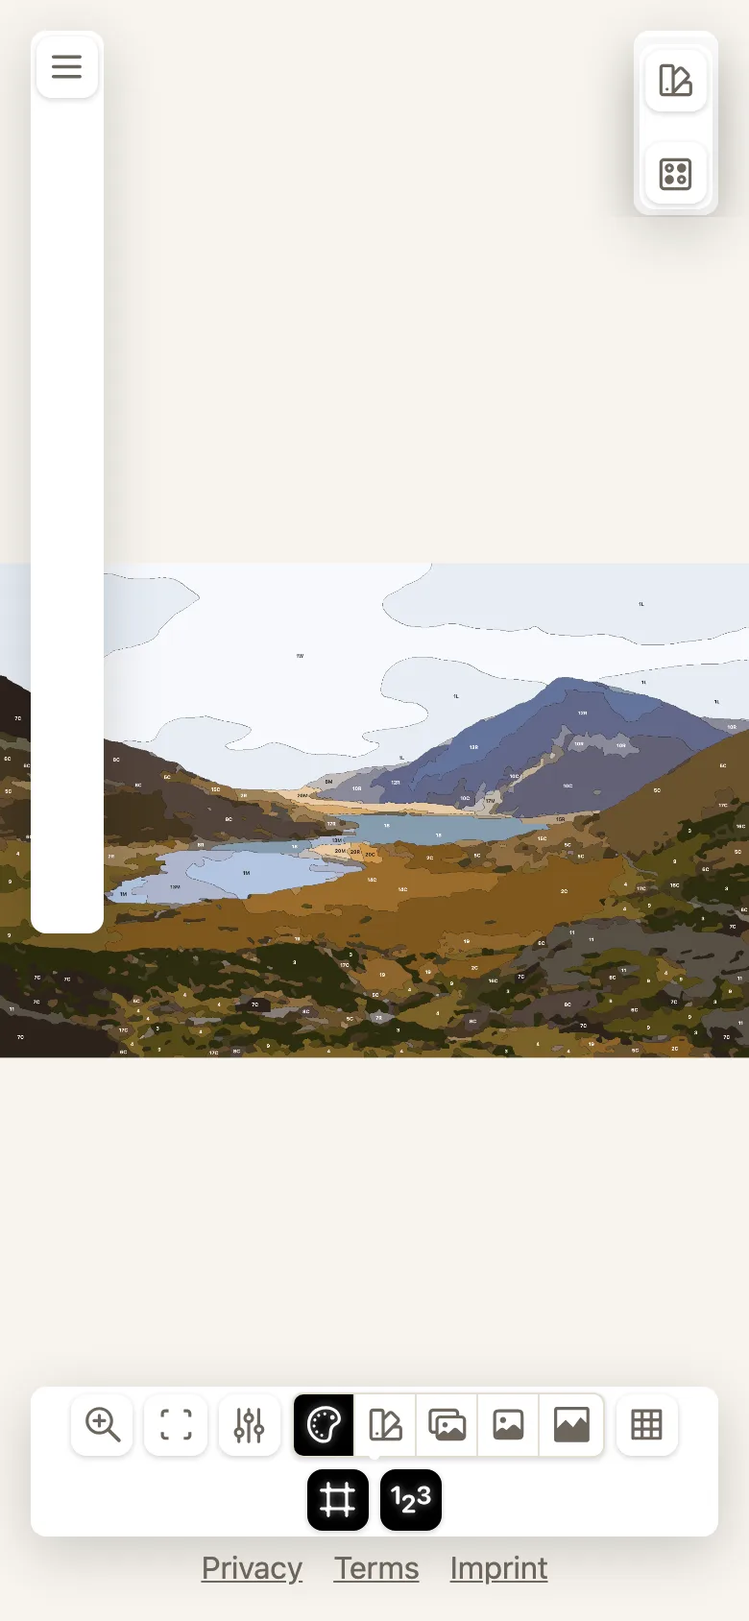
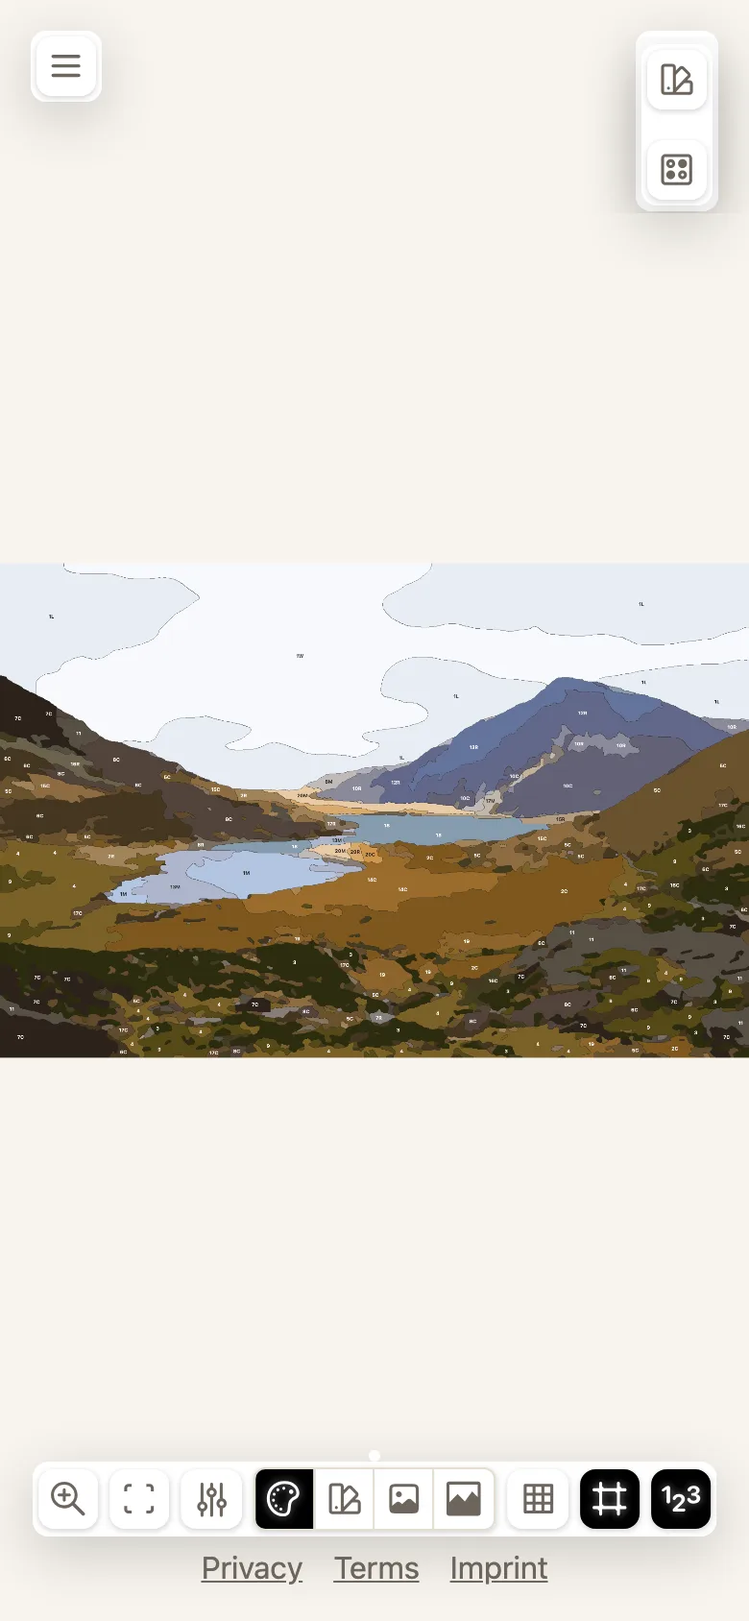
fix: phone toolbar in one row again, folded menu only the burger; Overlay view hidden
The tool size counts the grid button's group and the view group's borders; the folded menu
buttons leave the flow, so the panel around the burger no longer reaches down the screen.
Manual: Overlay gone from the views, picture tools and phone shots retaken.

diff --git a/public/de/handbuch/alles.html b/public/de/handbuch/alles.html
@@ -39,7 +39,7 @@
 <ol class="legend">
 <li><strong>Neues Bild</strong> und die anderen Knöpfe rund ums Bild: Beispiele, Sichern, Sammlung, Drucken, Exportieren.</li>
 <li>Die Werkzeuge des Bildes: ans Fenster anpassen, einen Ausschnitt ansehen.</li>
-<li>Die Ansichten: gemischte Farbe, die Farben des Fotos, Überlagerung, das Foto selbst.</li>
+<li>Die Ansichten: gemischte Farbe, die Farben des Fotos, das Foto selbst.</li>
 <li><strong>Farben</strong>: jede Mischung mit ihren Farben und Lasuren.</li>
 <li><strong>Einstellungen</strong>: wie viele Mischungen, wie einfach die Flächen, welche Methode.</li>
 <li><strong>Farbkasten</strong>: die Farben, die du besitzt, und die Palette dieses Bildes.</li>
@@ -332,13 +332,12 @@
 <figure class="shot"><div class="shot__frame"><a class="shot__zoom" href="../../manual/img/de/geometric.webp" title="Bild in voller Größe öffnen"><img src="../../manual/img/de/geometric.webp" width="1440" height="900" alt="Das Beispielfoto mit geometrischen Flächen" loading="lazy"></a></div><figcaption>Das Beispielfoto mit geometrischen Flächen</figcaption></figure>
 <h2 id="farbflaechen--die-ansichten"><a class="anchor" href="#farbflaechen--die-ansichten" aria-hidden="true" tabindex="-1">#</a>Die Ansichten</h2>
 <p>Die Werkzeuge des Bildes sitzen über ihm.</p>
-<figure class="shot shot--markers" style="--shot-width:666px"><div class="shot__frame"><a class="shot__zoom" href="../../manual/img/de/picture-tools.webp" title="Bild in voller Größe öffnen"><img src="../../manual/img/de/picture-tools.webp" width="666" height="90" alt="Die Werkzeuge des Bildes" loading="lazy"></a><span class="shot__marker" style="left:6.61%;top:3.33%" aria-hidden="true">1</span><span class="shot__marker" style="left:16.22%;top:3.33%" aria-hidden="true">2</span><span class="shot__marker" style="left:35.59%;top:3.33%" aria-hidden="true">3</span><span class="shot__marker" style="left:42.79%;top:3.33%" aria-hidden="true">4</span><span class="shot__marker" style="left:50%;top:3.33%" aria-hidden="true">5</span><span class="shot__marker" style="left:57.21%;top:3.33%" aria-hidden="true">6</span><span class="shot__marker" style="left:64.41%;top:3.33%" aria-hidden="true">7</span><span class="shot__marker" style="left:74.17%;top:3.33%" aria-hidden="true">8</span><span class="shot__marker" style="left:83.78%;top:3.33%" aria-hidden="true">9</span><span class="shot__marker" style="left:93.39%;top:3.33%" aria-hidden="true">10</span></div><figcaption>Die Werkzeuge des Bildes</figcaption></figure>
+<figure class="shot shot--markers" style="--shot-width:618px"><div class="shot__frame"><a class="shot__zoom" href="../../manual/img/de/picture-tools.webp" title="Bild in voller Größe öffnen"><img src="../../manual/img/de/picture-tools.webp" width="618" height="90" alt="Die Werkzeuge des Bildes" loading="lazy"></a><span class="shot__marker" style="left:7.12%;top:3.33%" aria-hidden="true">1</span><span class="shot__marker" style="left:17.48%;top:3.33%" aria-hidden="true">2</span><span class="shot__marker" style="left:38.35%;top:3.33%" aria-hidden="true">3</span><span class="shot__marker" style="left:46.12%;top:3.33%" aria-hidden="true">4</span><span class="shot__marker" style="left:53.88%;top:3.33%" aria-hidden="true">5</span><span class="shot__marker" style="left:61.65%;top:3.33%" aria-hidden="true">6</span><span class="shot__marker" style="left:72.17%;top:3.33%" aria-hidden="true">7</span><span class="shot__marker" style="left:82.52%;top:3.33%" aria-hidden="true">8</span><span class="shot__marker" style="left:92.88%;top:3.33%" aria-hidden="true">9</span></div><figcaption>Die Werkzeuge des Bildes</figcaption></figure>
 <ol class="legend">
 <li><strong>Anpassen</strong> passt das Bild ins Fenster.</li>
 <li><strong>Ausschnitt</strong> zeigt einen Teil des Bildes für sich (siehe <a href="#bilder--genauer-hinsehen-ausschnitte-des-bildes">Bilder</a>).</li>
 <li><strong>Gemischte Farbe</strong>: jede Fläche in dem Ton, den deine Farben tatsächlich erreichen. Nach dieser Ansicht malst du.</li>
 <li><strong>Fotofarbe</strong>: jede Fläche in der Farbe des Fotos. Vergleich sie mit <strong>Gemischte Farbe</strong>, um zu sehen, wo deine Farben nicht hinkommen.</li>
-<li><strong>Überlagerung</strong>: das Foto zur Hälfte über der Farbe, um zu sehen, welche Fläche welcher Teil des Fotos ist.</li>
 <li><strong>Foto</strong>: das Original, mit Sättigung und Kontrast.</li>
 <li><strong>Blocking</strong>: Licht und Schatten in großen Massen. Siehe <a href="#tonwerte--blocking-licht-und-schatten-zuerst">Tonwerte</a>.</li>
 <li><strong>Raster</strong>: quadratische Felder über dem Bild, in Weiß, Grau oder Schwarz. Siehe <a href="#drucken--das-raster">Drucken</a>.</li>
@@ -346,7 +345,6 @@
 <li><strong>Nummern</strong>: jeder Klick schaltet weiter, von Nummern zu Nummern auf Hintergrund zu keinen Nummern. Auf Hintergrund steht jede Nummer auf einem kleinen Quadrat, weiß mit dunkler Nummer auf dunklen Flächen und dunkel mit weißer Nummer auf hellen, so bleibt sie auf jeder Farbe lesbar.</li>
 </ol>
 <figure class="shot"><div class="shot__frame"><a class="shot__zoom" href="../../manual/img/de/view-target.webp" title="Bild in voller Größe öffnen"><img src="../../manual/img/de/view-target.webp" width="1440" height="900" alt="Fotofarbe: was das Foto verlangt" loading="lazy"></a></div><figcaption>Fotofarbe: was das Foto verlangt</figcaption></figure>
-<figure class="shot"><div class="shot__frame"><a class="shot__zoom" href="../../manual/img/de/view-overlay.webp" title="Bild in voller Größe öffnen"><img src="../../manual/img/de/view-overlay.webp" width="1440" height="900" alt="Überlagerung: das Foto über der Farbe" loading="lazy"></a></div><figcaption>Überlagerung: das Foto über der Farbe</figcaption></figure>
 <figure class="shot"><div class="shot__frame"><a class="shot__zoom" href="../../manual/img/de/view-photo.webp" title="Bild in voller Größe öffnen"><img src="../../manual/img/de/view-photo.webp" width="1440" height="900" alt="Foto: das Original" loading="lazy"></a></div><figcaption>Foto: das Original</figcaption></figure>
 <p>Ohne Umrisse und Nummern zeigt <strong>Gemischte Farbe</strong> das Bild so, wie es gemalt aussehen könnte, ein guter Test, ob der Plan als Bild funktioniert.</p>
 <figure class="shot"><div class="shot__frame"><a class="shot__zoom" href="../../manual/img/de/view-plain.webp" title="Bild in voller Größe öffnen"><img src="../../manual/img/de/view-plain.webp" width="1440" height="900" alt="Gemischte Farbe ohne Umrisse und Nummern" loading="lazy"></a></div><figcaption>Gemischte Farbe ohne Umrisse und Nummern</figcaption></figure>
@@ -1734,11 +1732,6 @@
 <td>Treffer</td>
 <td>Match quality</td>
 <td>Wie nah ein Rezept seinem Ziel kommt: sehr gut (unter 2), gut (unter 5), mäßig (unter 10), grob (ab 10). Englisch: excellent, good, fair, rough.</td>
-</tr>
-<tr>
-<td>Überlagerung</td>
-<td>Overlay</td>
-<td>Die Ansicht des Fotos in halber Stärke über der Farbe.</td>
 </tr>
 <tr>
 <td>Ziel</td>

diff --git a/public/manual/all.html b/public/manual/all.html
@@ -39,7 +39,7 @@
 <ol class="legend">
 <li><strong>New picture</strong> and the other buttons for the picture: samples, saving, the collection, printing, exporting.</li>
 <li>The tools of the picture: fit it to the window, look at a detail.</li>
-<li>The views: mixed paint, the colours of the photo, an overlay, the photo itself.</li>
+<li>The views: mixed paint, the colours of the photo, the photo itself.</li>
 <li><strong>Colours</strong>: every mix with its paints and its washes.</li>
 <li><strong>Settings</strong>: how many mixes, how simple the areas, the method.</li>
 <li><strong>Paint box</strong>: the paints you own and the palette of this picture.</li>
@@ -332,13 +332,12 @@
 <figure class="shot"><div class="shot__frame"><a class="shot__zoom" href="img/en/geometric.webp" title="Open the picture at full size"><img src="img/en/geometric.webp" width="1440" height="900" alt="The sample photo with geometric areas" loading="lazy"></a></div><figcaption>The sample photo with geometric areas</figcaption></figure>
 <h2 id="colour-areas--the-views"><a class="anchor" href="#colour-areas--the-views" aria-hidden="true" tabindex="-1">#</a>The views</h2>
 <p>The tools of the picture sit above it.</p>
-<figure class="shot shot--markers" style="--shot-width:666px"><div class="shot__frame"><a class="shot__zoom" href="img/en/picture-tools.webp" title="Open the picture at full size"><img src="img/en/picture-tools.webp" width="666" height="90" alt="The tools of the picture" loading="lazy"></a><span class="shot__marker" style="left:6.61%;top:3.33%" aria-hidden="true">1</span><span class="shot__marker" style="left:16.22%;top:3.33%" aria-hidden="true">2</span><span class="shot__marker" style="left:35.59%;top:3.33%" aria-hidden="true">3</span><span class="shot__marker" style="left:42.79%;top:3.33%" aria-hidden="true">4</span><span class="shot__marker" style="left:50%;top:3.33%" aria-hidden="true">5</span><span class="shot__marker" style="left:57.21%;top:3.33%" aria-hidden="true">6</span><span class="shot__marker" style="left:64.41%;top:3.33%" aria-hidden="true">7</span><span class="shot__marker" style="left:74.17%;top:3.33%" aria-hidden="true">8</span><span class="shot__marker" style="left:83.78%;top:3.33%" aria-hidden="true">9</span><span class="shot__marker" style="left:93.39%;top:3.33%" aria-hidden="true">10</span></div><figcaption>The tools of the picture</figcaption></figure>
+<figure class="shot shot--markers" style="--shot-width:618px"><div class="shot__frame"><a class="shot__zoom" href="img/en/picture-tools.webp" title="Open the picture at full size"><img src="img/en/picture-tools.webp" width="618" height="90" alt="The tools of the picture" loading="lazy"></a><span class="shot__marker" style="left:7.12%;top:3.33%" aria-hidden="true">1</span><span class="shot__marker" style="left:17.48%;top:3.33%" aria-hidden="true">2</span><span class="shot__marker" style="left:38.35%;top:3.33%" aria-hidden="true">3</span><span class="shot__marker" style="left:46.12%;top:3.33%" aria-hidden="true">4</span><span class="shot__marker" style="left:53.88%;top:3.33%" aria-hidden="true">5</span><span class="shot__marker" style="left:61.65%;top:3.33%" aria-hidden="true">6</span><span class="shot__marker" style="left:72.17%;top:3.33%" aria-hidden="true">7</span><span class="shot__marker" style="left:82.52%;top:3.33%" aria-hidden="true">8</span><span class="shot__marker" style="left:92.88%;top:3.33%" aria-hidden="true">9</span></div><figcaption>The tools of the picture</figcaption></figure>
 <ol class="legend">
 <li><strong>Fit</strong> fits the picture to the window.</li>
 <li><strong>Detail</strong> lets you look at a part of the picture on its own (see <a href="#pictures--looking-closer-details-of-the-picture">Pictures</a>).</li>
 <li><strong>Mixed paint</strong>: every area in the colour your paints actually reach. This is the view to paint from.</li>
 <li><strong>Photo colour</strong>: every area in the colour of the photo. Compare it with <strong>Mixed paint</strong> to see where your paints fall short.</li>
-<li><strong>Overlay</strong>: the photo at half strength over the paint, to see which area is which part of the photo.</li>
 <li><strong>Photo</strong>: the original, with saturation and contrast applied.</li>
 <li><strong>Blocking</strong>: light and shadow in large masses. See <a href="#values--blocking-light-and-shadow-first">Values</a>.</li>
 <li><strong>Grid</strong>: square cells over the picture, in white, grey or black. See <a href="#printing--the-grid">Printing</a>.</li>
@@ -346,7 +345,6 @@
 <li><strong>Numbers</strong>: each click steps on from numbers to numbers on a backdrop to no numbers. On a backdrop every number sits on a small square, white with a dark number on dark areas and dark with a white number on light ones, so it stays readable on any colour.</li>
 </ol>
 <figure class="shot"><div class="shot__frame"><a class="shot__zoom" href="img/en/view-target.webp" title="Open the picture at full size"><img src="img/en/view-target.webp" width="1440" height="900" alt="Photo colour: what the photo asks for" loading="lazy"></a></div><figcaption>Photo colour: what the photo asks for</figcaption></figure>
-<figure class="shot"><div class="shot__frame"><a class="shot__zoom" href="img/en/view-overlay.webp" title="Open the picture at full size"><img src="img/en/view-overlay.webp" width="1440" height="900" alt="Overlay: the photo over the paint" loading="lazy"></a></div><figcaption>Overlay: the photo over the paint</figcaption></figure>
 <figure class="shot"><div class="shot__frame"><a class="shot__zoom" href="img/en/view-photo.webp" title="Open the picture at full size"><img src="img/en/view-photo.webp" width="1440" height="900" alt="Photo: the original" loading="lazy"></a></div><figcaption>Photo: the original</figcaption></figure>
 <p>With outlines and numbers off, <strong>Mixed paint</strong> shows the picture as it might look painted, a good test of whether the plan works as a picture.</p>
 <figure class="shot"><div class="shot__frame"><a class="shot__zoom" href="img/en/view-plain.webp" title="Open the picture at full size"><img src="img/en/view-plain.webp" width="1440" height="900" alt="Mixed paint without outlines and numbers" loading="lazy"></a></div><figcaption>Mixed paint without outlines and numbers</figcaption></figure>
@@ -1694,11 +1692,6 @@
 <td>Organic</td>
 <td>Organisch</td>
 <td>Areas that follow the outlines of the photo.</td>
-</tr>
-<tr>
-<td>Overlay</td>
-<td>Überlagerung</td>
-<td>The view of the photo at half strength over the paint.</td>
 </tr>
 <tr>
 <td>Paint box</td>

diff --git a/public/de/handbuch/farbflaechen.html b/public/de/handbuch/farbflaechen.html
@@ -78,13 +78,12 @@
 <figure class="shot"><div class="shot__frame"><a class="shot__zoom" href="../../manual/img/de/geometric.webp" title="Bild in voller Größe öffnen"><img src="../../manual/img/de/geometric.webp" width="1440" height="900" alt="Das Beispielfoto mit geometrischen Flächen" loading="lazy"></a></div><figcaption>Das Beispielfoto mit geometrischen Flächen</figcaption></figure>
 <h2 id="die-ansichten"><a class="anchor" href="#die-ansichten" aria-hidden="true" tabindex="-1">#</a>Die Ansichten</h2>
 <p>Die Werkzeuge des Bildes sitzen über ihm.</p>
-<figure class="shot shot--markers" style="--shot-width:666px"><div class="shot__frame"><a class="shot__zoom" href="../../manual/img/de/picture-tools.webp" title="Bild in voller Größe öffnen"><img src="../../manual/img/de/picture-tools.webp" width="666" height="90" alt="Die Werkzeuge des Bildes" loading="lazy"></a><span class="shot__marker" style="left:6.61%;top:3.33%" aria-hidden="true">1</span><span class="shot__marker" style="left:16.22%;top:3.33%" aria-hidden="true">2</span><span class="shot__marker" style="left:35.59%;top:3.33%" aria-hidden="true">3</span><span class="shot__marker" style="left:42.79%;top:3.33%" aria-hidden="true">4</span><span class="shot__marker" style="left:50%;top:3.33%" aria-hidden="true">5</span><span class="shot__marker" style="left:57.21%;top:3.33%" aria-hidden="true">6</span><span class="shot__marker" style="left:64.41%;top:3.33%" aria-hidden="true">7</span><span class="shot__marker" style="left:74.17%;top:3.33%" aria-hidden="true">8</span><span class="shot__marker" style="left:83.78%;top:3.33%" aria-hidden="true">9</span><span class="shot__marker" style="left:93.39%;top:3.33%" aria-hidden="true">10</span></div><figcaption>Die Werkzeuge des Bildes</figcaption></figure>
+<figure class="shot shot--markers" style="--shot-width:618px"><div class="shot__frame"><a class="shot__zoom" href="../../manual/img/de/picture-tools.webp" title="Bild in voller Größe öffnen"><img src="../../manual/img/de/picture-tools.webp" width="618" height="90" alt="Die Werkzeuge des Bildes" loading="lazy"></a><span class="shot__marker" style="left:7.12%;top:3.33%" aria-hidden="true">1</span><span class="shot__marker" style="left:17.48%;top:3.33%" aria-hidden="true">2</span><span class="shot__marker" style="left:38.35%;top:3.33%" aria-hidden="true">3</span><span class="shot__marker" style="left:46.12%;top:3.33%" aria-hidden="true">4</span><span class="shot__marker" style="left:53.88%;top:3.33%" aria-hidden="true">5</span><span class="shot__marker" style="left:61.65%;top:3.33%" aria-hidden="true">6</span><span class="shot__marker" style="left:72.17%;top:3.33%" aria-hidden="true">7</span><span class="shot__marker" style="left:82.52%;top:3.33%" aria-hidden="true">8</span><span class="shot__marker" style="left:92.88%;top:3.33%" aria-hidden="true">9</span></div><figcaption>Die Werkzeuge des Bildes</figcaption></figure>
 <ol class="legend">
 <li><strong>Anpassen</strong> passt das Bild ins Fenster.</li>
 <li><strong>Ausschnitt</strong> zeigt einen Teil des Bildes für sich (siehe <a href="bilder.html#genauer-hinsehen-ausschnitte-des-bildes">Bilder</a>).</li>
 <li><strong>Gemischte Farbe</strong>: jede Fläche in dem Ton, den deine Farben tatsächlich erreichen. Nach dieser Ansicht malst du.</li>
 <li><strong>Fotofarbe</strong>: jede Fläche in der Farbe des Fotos. Vergleich sie mit <strong>Gemischte Farbe</strong>, um zu sehen, wo deine Farben nicht hinkommen.</li>
-<li><strong>Überlagerung</strong>: das Foto zur Hälfte über der Farbe, um zu sehen, welche Fläche welcher Teil des Fotos ist.</li>
 <li><strong>Foto</strong>: das Original, mit Sättigung und Kontrast.</li>
 <li><strong>Blocking</strong>: Licht und Schatten in großen Massen. Siehe <a href="tonwerte.html#blocking-licht-und-schatten-zuerst">Tonwerte</a>.</li>
 <li><strong>Raster</strong>: quadratische Felder über dem Bild, in Weiß, Grau oder Schwarz. Siehe <a href="drucken.html#das-raster">Drucken</a>.</li>
@@ -92,7 +91,6 @@
 <li><strong>Nummern</strong>: jeder Klick schaltet weiter, von Nummern zu Nummern auf Hintergrund zu keinen Nummern. Auf Hintergrund steht jede Nummer auf einem kleinen Quadrat, weiß mit dunkler Nummer auf dunklen Flächen und dunkel mit weißer Nummer auf hellen, so bleibt sie auf jeder Farbe lesbar.</li>
 </ol>
 <figure class="shot"><div class="shot__frame"><a class="shot__zoom" href="../../manual/img/de/view-target.webp" title="Bild in voller Größe öffnen"><img src="../../manual/img/de/view-target.webp" width="1440" height="900" alt="Fotofarbe: was das Foto verlangt" loading="lazy"></a></div><figcaption>Fotofarbe: was das Foto verlangt</figcaption></figure>
-<figure class="shot"><div class="shot__frame"><a class="shot__zoom" href="../../manual/img/de/view-overlay.webp" title="Bild in voller Größe öffnen"><img src="../../manual/img/de/view-overlay.webp" width="1440" height="900" alt="Überlagerung: das Foto über der Farbe" loading="lazy"></a></div><figcaption>Überlagerung: das Foto über der Farbe</figcaption></figure>
 <figure class="shot"><div class="shot__frame"><a class="shot__zoom" href="../../manual/img/de/view-photo.webp" title="Bild in voller Größe öffnen"><img src="../../manual/img/de/view-photo.webp" width="1440" height="900" alt="Foto: das Original" loading="lazy"></a></div><figcaption>Foto: das Original</figcaption></figure>
 <p>Ohne Umrisse und Nummern zeigt <strong>Gemischte Farbe</strong> das Bild so, wie es gemalt aussehen könnte, ein guter Test, ob der Plan als Bild funktioniert.</p>
 <figure class="shot"><div class="shot__frame"><a class="shot__zoom" href="../../manual/img/de/view-plain.webp" title="Bild in voller Größe öffnen"><img src="../../manual/img/de/view-plain.webp" width="1440" height="900" alt="Gemischte Farbe ohne Umrisse und Nummern" loading="lazy"></a></div><figcaption>Gemischte Farbe ohne Umrisse und Nummern</figcaption></figure>

diff --git a/public/manual/colour-areas.html b/public/manual/colour-areas.html
@@ -78,13 +78,12 @@
 <figure class="shot"><div class="shot__frame"><a class="shot__zoom" href="img/en/geometric.webp" title="Open the picture at full size"><img src="img/en/geometric.webp" width="1440" height="900" alt="The sample photo with geometric areas" loading="lazy"></a></div><figcaption>The sample photo with geometric areas</figcaption></figure>
 <h2 id="the-views"><a class="anchor" href="#the-views" aria-hidden="true" tabindex="-1">#</a>The views</h2>
 <p>The tools of the picture sit above it.</p>
-<figure class="shot shot--markers" style="--shot-width:666px"><div class="shot__frame"><a class="shot__zoom" href="img/en/picture-tools.webp" title="Open the picture at full size"><img src="img/en/picture-tools.webp" width="666" height="90" alt="The tools of the picture" loading="lazy"></a><span class="shot__marker" style="left:6.61%;top:3.33%" aria-hidden="true">1</span><span class="shot__marker" style="left:16.22%;top:3.33%" aria-hidden="true">2</span><span class="shot__marker" style="left:35.59%;top:3.33%" aria-hidden="true">3</span><span class="shot__marker" style="left:42.79%;top:3.33%" aria-hidden="true">4</span><span class="shot__marker" style="left:50%;top:3.33%" aria-hidden="true">5</span><span class="shot__marker" style="left:57.21%;top:3.33%" aria-hidden="true">6</span><span class="shot__marker" style="left:64.41%;top:3.33%" aria-hidden="true">7</span><span class="shot__marker" style="left:74.17%;top:3.33%" aria-hidden="true">8</span><span class="shot__marker" style="left:83.78%;top:3.33%" aria-hidden="true">9</span><span class="shot__marker" style="left:93.39%;top:3.33%" aria-hidden="true">10</span></div><figcaption>The tools of the picture</figcaption></figure>
+<figure class="shot shot--markers" style="--shot-width:618px"><div class="shot__frame"><a class="shot__zoom" href="img/en/picture-tools.webp" title="Open the picture at full size"><img src="img/en/picture-tools.webp" width="618" height="90" alt="The tools of the picture" loading="lazy"></a><span class="shot__marker" style="left:7.12%;top:3.33%" aria-hidden="true">1</span><span class="shot__marker" style="left:17.48%;top:3.33%" aria-hidden="true">2</span><span class="shot__marker" style="left:38.35%;top:3.33%" aria-hidden="true">3</span><span class="shot__marker" style="left:46.12%;top:3.33%" aria-hidden="true">4</span><span class="shot__marker" style="left:53.88%;top:3.33%" aria-hidden="true">5</span><span class="shot__marker" style="left:61.65%;top:3.33%" aria-hidden="true">6</span><span class="shot__marker" style="left:72.17%;top:3.33%" aria-hidden="true">7</span><span class="shot__marker" style="left:82.52%;top:3.33%" aria-hidden="true">8</span><span class="shot__marker" style="left:92.88%;top:3.33%" aria-hidden="true">9</span></div><figcaption>The tools of the picture</figcaption></figure>
 <ol class="legend">
 <li><strong>Fit</strong> fits the picture to the window.</li>
 <li><strong>Detail</strong> lets you look at a part of the picture on its own (see <a href="pictures.html#looking-closer-details-of-the-picture">Pictures</a>).</li>
 <li><strong>Mixed paint</strong>: every area in the colour your paints actually reach. This is the view to paint from.</li>
 <li><strong>Photo colour</strong>: every area in the colour of the photo. Compare it with <strong>Mixed paint</strong> to see where your paints fall short.</li>
-<li><strong>Overlay</strong>: the photo at half strength over the paint, to see which area is which part of the photo.</li>
 <li><strong>Photo</strong>: the original, with saturation and contrast applied.</li>
 <li><strong>Blocking</strong>: light and shadow in large masses. See <a href="values.html#blocking-light-and-shadow-first">Values</a>.</li>
 <li><strong>Grid</strong>: square cells over the picture, in white, grey or black. See <a href="printing.html#the-grid">Printing</a>.</li>
@@ -92,7 +91,6 @@
 <li><strong>Numbers</strong>: each click steps on from numbers to numbers on a backdrop to no numbers. On a backdrop every number sits on a small square, white with a dark number on dark areas and dark with a white number on light ones, so it stays readable on any colour.</li>
 </ol>
 <figure class="shot"><div class="shot__frame"><a class="shot__zoom" href="img/en/view-target.webp" title="Open the picture at full size"><img src="img/en/view-target.webp" width="1440" height="900" alt="Photo colour: what the photo asks for" loading="lazy"></a></div><figcaption>Photo colour: what the photo asks for</figcaption></figure>
-<figure class="shot"><div class="shot__frame"><a class="shot__zoom" href="img/en/view-overlay.webp" title="Open the picture at full size"><img src="img/en/view-overlay.webp" width="1440" height="900" alt="Overlay: the photo over the paint" loading="lazy"></a></div><figcaption>Overlay: the photo over the paint</figcaption></figure>
 <figure class="shot"><div class="shot__frame"><a class="shot__zoom" href="img/en/view-photo.webp" title="Open the picture at full size"><img src="img/en/view-photo.webp" width="1440" height="900" alt="Photo: the original" loading="lazy"></a></div><figcaption>Photo: the original</figcaption></figure>
 <p>With outlines and numbers off, <strong>Mixed paint</strong> shows the picture as it might look painted, a good test of whether the plan works as a picture.</p>
 <figure class="shot"><div class="shot__frame"><a class="shot__zoom" href="img/en/view-plain.webp" title="Open the picture at full size"><img src="img/en/view-plain.webp" width="1440" height="900" alt="Mixed paint without outlines and numbers" loading="lazy"></a></div><figcaption>Mixed paint without outlines and numbers</figcaption></figure>

diff --git a/src/components/ViewSwitch.vue b/src/components/ViewSwitch.vue
@@ -1,5 +1,5 @@
 <template>
-  <!-- What the picture shows: the paint, the colours of the photo, the photo over the paint, the photo, the blocking. -->
+  <!-- What the picture shows: the paint, the colours of the photo, the photo, the blocking. -->
   <div class="segmented viewswitch">
     <button
       v-for="v in views"
@@ -34,19 +34,18 @@ const pro = useProStore()
 const BLOCKING = { value: 'blocking', label: 'Blocking: light and shadow in large masses', hint: 'Blocking', icon: 'blocking' }
 // Layer mode has no colour per area to compare with, only the layered picture and the photo.
 // The Sketch view is hidden for now (TASK-39: it is to be reworked); its drawing is still there.
-// So is the Template view: the grid over the picture takes its place; its drawing is still there.
+// So is the Template view: the grid over the picture takes its place; and the Overlay view, for a
+// toolbar that fits on a phone. Their drawing is still there.
 const views = computed(() =>
   analysis.layerMode
     ? [
         { value: 'mixed', label: 'Layered paint', hint: 'Layered paint', icon: 'mixed' },
-        { value: 'overlay', label: 'Overlay: the photo at half strength over the paint', hint: 'Overlay', icon: 'overlay' },
         { value: 'original', label: 'Photo', hint: 'Photo', icon: 'photo' },
         BLOCKING,
       ]
     : [
         { value: 'mixed', label: 'Mixed paint', hint: 'Mixed paint', icon: 'mixed' },
         { value: 'target', label: 'Photo colour', hint: 'Photo colour', icon: 'colours' },
-        { value: 'overlay', label: 'Overlay: the photo at half strength over the paint', hint: 'Overlay', icon: 'overlay' },
         { value: 'original', label: 'Photo', hint: 'Photo', icon: 'photo' },
         BLOCKING,
       ],

diff --git a/resources/scss/views/app.scss b/resources/scss/views/app.scss
@@ -80,23 +80,30 @@
 
     @media (max-width: 760px) {
         --app-tools: 0rem;
-        // The tools are one row at the bottom: ten buttons (the view group counts five, with its
-        // borders) and five gaps. Smaller than 48 px only as far as a narrow screen needs.
+        // The tools are one row at the bottom: ten buttons (fit, detail, settings, four views,
+        // grid, outlines, numbers) and six gaps between the seven groups, inside the toolbar's
+        // padding (6 px) and the view group's borders (2 px), with 2 px to spare. Smaller than
+        // 48 px only as far as a narrow screen needs.
         --tool-gap: #{pxtorem(6)};
-        --tool: min(#{pxtorem(48)}, calc((100vw - var(--gap-2x) - 5 * var(--tool-gap) - #{pxtorem(6)}) / 10));
+        --tool: min(#{pxtorem(48)}, calc((100vw - var(--gap-2x) - 6 * var(--tool-gap) - #{pxtorem(10)}) / 10));
 
         &__menu {
             display: flex;
         }
 
-        // Folded: the buttons slide out to the left, and come back with the menu button.
+        // Folded: the buttons slide out to the left, and come back with the menu button. Out of
+        // the flow while folded, so that the panel around them is only the menu button.
         &__left-buttons {
+            position: absolute;
+            top: 100%;
+            left: 0;
             transform: translateX(calc(-100% - var(--app-left) - var(--gap)));
             visibility: hidden;
             transition: transform 0.25s ease, visibility 0s linear 0.25s;
         }
 
         &__left--open &__left-buttons {
+            position: static;
             transform: none;
             visibility: visible;
             transition: transform 0.25s ease, visibility 0s;

diff --git a/public/de/handbuch/index.html b/public/de/handbuch/index.html
@@ -40,7 +40,7 @@
 <ol class="legend">
 <li><strong>Neues Bild</strong> und die anderen Knöpfe rund ums Bild: Beispiele, Sichern, Sammlung, Drucken, Exportieren.</li>
 <li>Die Werkzeuge des Bildes: ans Fenster anpassen, einen Ausschnitt ansehen.</li>
-<li>Die Ansichten: gemischte Farbe, die Farben des Fotos, Überlagerung, das Foto selbst.</li>
+<li>Die Ansichten: gemischte Farbe, die Farben des Fotos, das Foto selbst.</li>
 <li><strong>Farben</strong>: jede Mischung mit ihren Farben und Lasuren.</li>
 <li><strong>Einstellungen</strong>: wie viele Mischungen, wie einfach die Flächen, welche Methode.</li>
 <li><strong>Farbkasten</strong>: die Farben, die du besitzt, und die Palette dieses Bildes.</li>

diff --git a/public/manual/index.html b/public/manual/index.html
@@ -40,7 +40,7 @@
 <ol class="legend">
 <li><strong>New picture</strong> and the other buttons for the picture: samples, saving, the collection, printing, exporting.</li>
 <li>The tools of the picture: fit it to the window, look at a detail.</li>
-<li>The views: mixed paint, the colours of the photo, an overlay, the photo itself.</li>
+<li>The views: mixed paint, the colours of the photo, the photo itself.</li>
 <li><strong>Colours</strong>: every mix with its paints and its washes.</li>
 <li><strong>Settings</strong>: how many mixes, how simple the areas, the method.</li>
 <li><strong>Paint box</strong>: the paints you own and the palette of this picture.</li>

diff --git a/public/de/handbuch/glossar.html b/public/de/handbuch/glossar.html
@@ -264,11 +264,6 @@
 <td>Wie nah ein Rezept seinem Ziel kommt: sehr gut (unter 2), gut (unter 5), mäßig (unter 10), grob (ab 10). Englisch: excellent, good, fair, rough.</td>
 </tr>
 <tr>
-<td>Überlagerung</td>
-<td>Overlay</td>
-<td>Die Ansicht des Fotos in halber Stärke über der Farbe.</td>
-</tr>
-<tr>
 <td>Ziel</td>
 <td>Target</td>
 <td>Die Farbe, die das Foto an einer Stelle verlangt.</td>

diff --git a/public/manual/glossary.html b/public/manual/glossary.html
@@ -224,11 +224,6 @@
 <td>Areas that follow the outlines of the photo.</td>
 </tr>
 <tr>
-<td>Overlay</td>
-<td>Überlagerung</td>
-<td>The view of the photo at half strength over the paint.</td>
-</tr>
-<tr>
 <td>Paint box</td>
 <td>Farbkasten</td>
 <td>A named set of paints you own, for example your pans or a travel set.</td>

diff --git a/docs/manual/chapters/de/05-farbflaechen.md b/docs/manual/chapters/de/05-farbflaechen.md
@@ -87,16 +87,13 @@ Die Werkzeuge des Bildes sitzen über ihm.
 2. **Ausschnitt** zeigt einen Teil des Bildes für sich (siehe [Bilder](bilder.html#genauer-hinsehen-ausschnitte-des-bildes)).
 3. **Gemischte Farbe**: jede Fläche in dem Ton, den deine Farben tatsächlich erreichen. Nach dieser Ansicht malst du.
 4. **Fotofarbe**: jede Fläche in der Farbe des Fotos. Vergleich sie mit **Gemischte Farbe**, um zu sehen, wo deine Farben nicht hinkommen.
-5. **Überlagerung**: das Foto zur Hälfte über der Farbe, um zu sehen, welche Fläche welcher Teil des Fotos ist.
-6. **Foto**: das Original, mit Sättigung und Kontrast.
-7. **Blocking**: Licht und Schatten in großen Massen. Siehe [Tonwerte](tonwerte.html#blocking-licht-und-schatten-zuerst).
-8. **Raster**: quadratische Felder über dem Bild, in Weiß, Grau oder Schwarz. Siehe [Drucken](drucken.html#das-raster).
-9. **Umrisse** ein oder aus.
-10. **Nummern**: jeder Klick schaltet weiter, von Nummern zu Nummern auf Hintergrund zu keinen Nummern. Auf Hintergrund steht jede Nummer auf einem kleinen Quadrat, weiß mit dunkler Nummer auf dunklen Flächen und dunkel mit weißer Nummer auf hellen, so bleibt sie auf jeder Farbe lesbar.
+5. **Foto**: das Original, mit Sättigung und Kontrast.
+6. **Blocking**: Licht und Schatten in großen Massen. Siehe [Tonwerte](tonwerte.html#blocking-licht-und-schatten-zuerst).
+7. **Raster**: quadratische Felder über dem Bild, in Weiß, Grau oder Schwarz. Siehe [Drucken](drucken.html#das-raster).
+8. **Umrisse** ein oder aus.
+9. **Nummern**: jeder Klick schaltet weiter, von Nummern zu Nummern auf Hintergrund zu keinen Nummern. Auf Hintergrund steht jede Nummer auf einem kleinen Quadrat, weiß mit dunkler Nummer auf dunklen Flächen und dunkel mit weißer Nummer auf hellen, so bleibt sie auf jeder Farbe lesbar.
 
 ![Fotofarbe: was das Foto verlangt](shot:view-target)
-
-![Überlagerung: das Foto über der Farbe](shot:view-overlay)
 
 ![Foto: das Original](shot:view-photo)
 

diff --git a/docs/manual/chapters/en/05-colour-areas.md b/docs/manual/chapters/en/05-colour-areas.md
@@ -87,16 +87,13 @@ The tools of the picture sit above it.
 2. **Detail** lets you look at a part of the picture on its own (see [Pictures](pictures.html#looking-closer-details-of-the-picture)).
 3. **Mixed paint**: every area in the colour your paints actually reach. This is the view to paint from.
 4. **Photo colour**: every area in the colour of the photo. Compare it with **Mixed paint** to see where your paints fall short.
-5. **Overlay**: the photo at half strength over the paint, to see which area is which part of the photo.
-6. **Photo**: the original, with saturation and contrast applied.
-7. **Blocking**: light and shadow in large masses. See [Values](values.html#blocking-light-and-shadow-first).
-8. **Grid**: square cells over the picture, in white, grey or black. See [Printing](printing.html#the-grid).
-9. **Outlines** on or off.
-10. **Numbers**: each click steps on from numbers to numbers on a backdrop to no numbers. On a backdrop every number sits on a small square, white with a dark number on dark areas and dark with a white number on light ones, so it stays readable on any colour.
+5. **Photo**: the original, with saturation and contrast applied.
+6. **Blocking**: light and shadow in large masses. See [Values](values.html#blocking-light-and-shadow-first).
+7. **Grid**: square cells over the picture, in white, grey or black. See [Printing](printing.html#the-grid).
+8. **Outlines** on or off.
+9. **Numbers**: each click steps on from numbers to numbers on a backdrop to no numbers. On a backdrop every number sits on a small square, white with a dark number on dark areas and dark with a white number on light ones, so it stays readable on any colour.
 
 ![Photo colour: what the photo asks for](shot:view-target)
-
-![Overlay: the photo over the paint](shot:view-overlay)
 
 ![Photo: the original](shot:view-photo)
 
